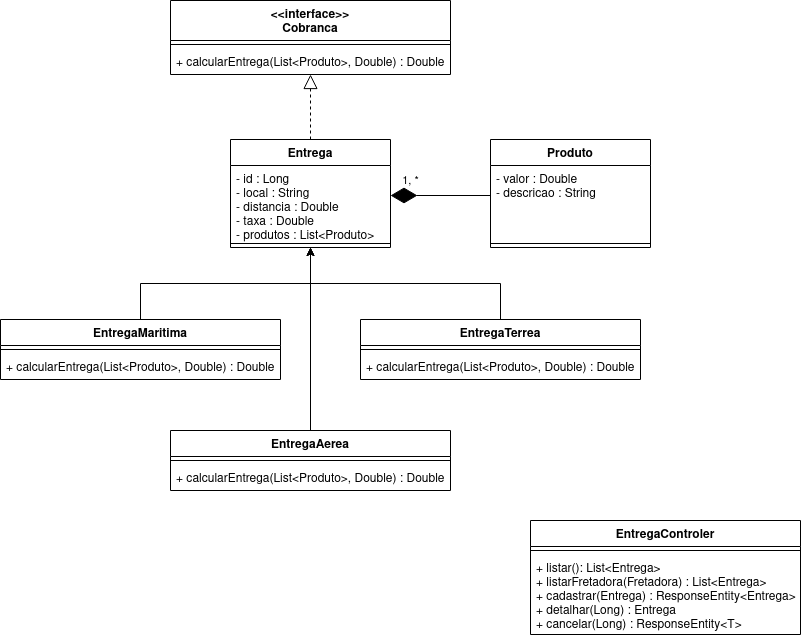
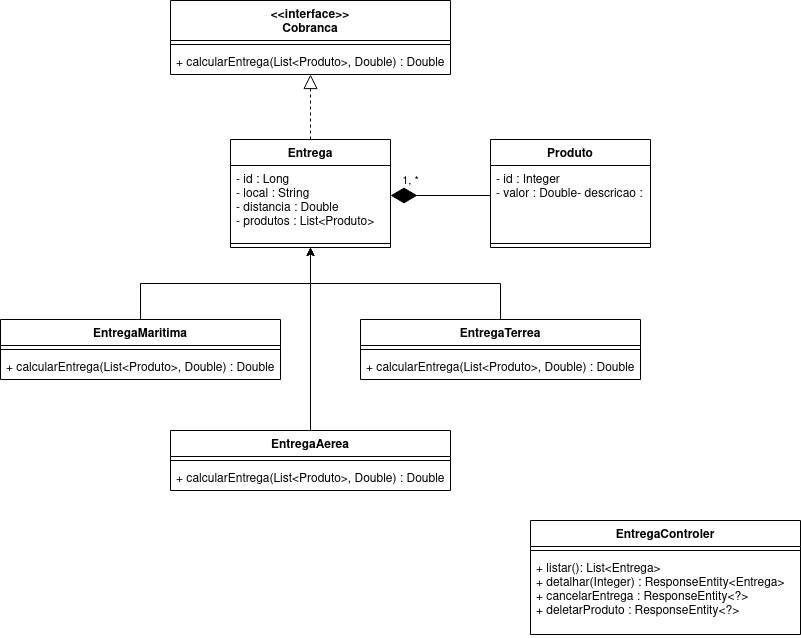
rename controler class and att file 'diagrama-de-classe.png'

Changed region(s): [[0.6866, 0.8934, 0.9988, 1.0], [0.2809, 0.3276, 0.4682, 0.3871], [0.6242, 0.268, 0.8115, 0.3276]]

diff --git a/src/main/java/br/com/duckdelivery/duckdelivery/controler/EntregaControler.java b/src/main/java/br/com/duckdelivery/duckdelivery/controler/EntregaControler.java
@@ -10,7 +10,7 @@ import java.util.List;
 
 @RestController
 @RequestMapping("/entregas")
-public class EntregasControler {
+public class EntregaControler {
 
     @GetMapping
     public List<Entrega> listar() {
